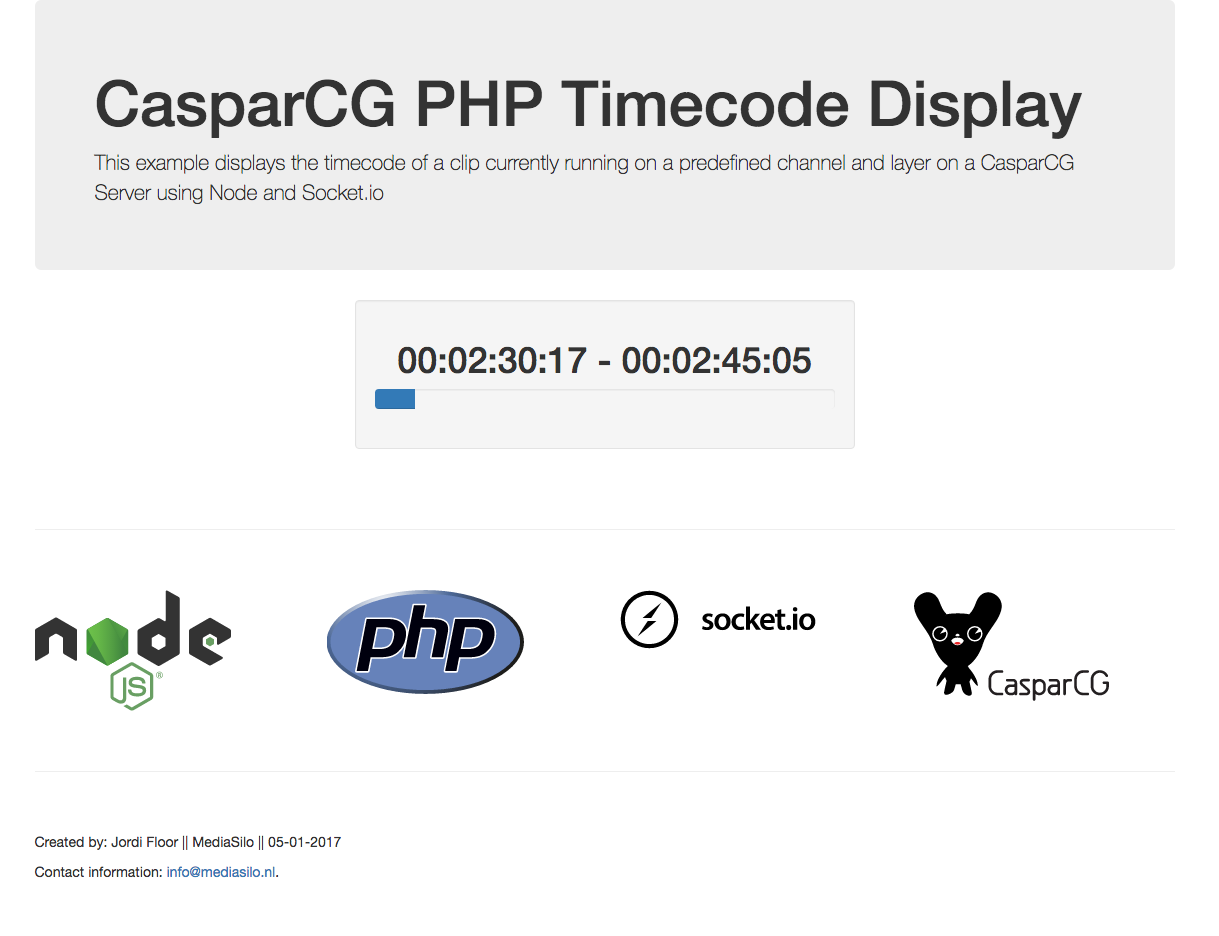
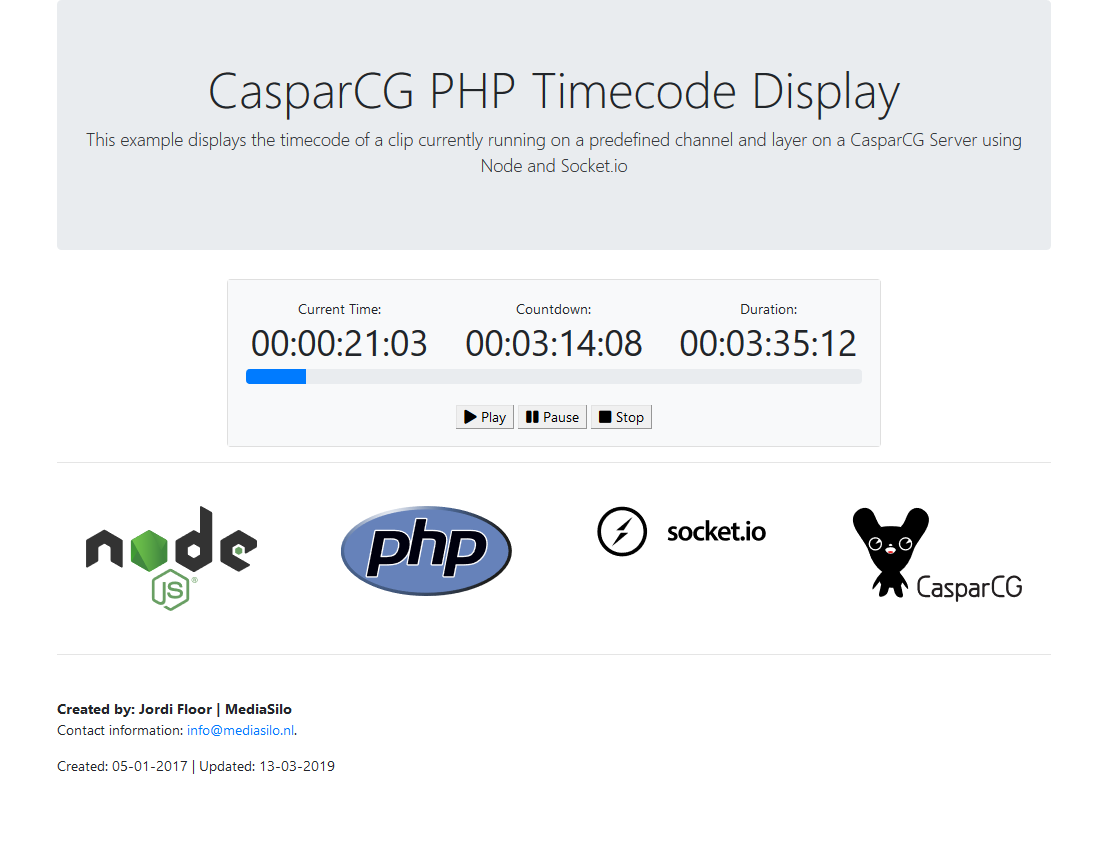
Updated Readme
- Added clearData
- Updated Readme to current version

diff --git a/Public/js/MS.NodeJS-CCG.js b/Public/js/MS.NodeJS-CCG.js
@@ -13,7 +13,8 @@ socket.on('connect',function() {
 
 // SIO || DISCONNECT
 socket.on('disconnect',function() {
-  console.log('Disconnected to NodeJS Server');    
+  console.log('Disconnected to NodeJS Server');
+  clearData();
 });
 
 // SIO || TIMING RECIEVED
@@ -21,11 +22,7 @@ socket.on('timing',function(timingReceived) {
 
   // CLEAR WHEN NO VIDEO IS PRESENT ON CHANNEL
   if(timingReceived.videoPresent == false){
-    $('#infobox #current h1').html('00:00:00:00');
-    $('#infobox #duration h1').html('00:00:00:00');
-    $('#infobox #remaining h1').html('00:00:00:00');
-    $('#infobox #progress').attr('aria-valuenow', '0');
-    $('#infobox #progress').css("width", '0%');
+    clearData();
   }
   else{
     // UPDATE TEXT
@@ -38,6 +35,15 @@ socket.on('timing',function(timingReceived) {
     $('#infobox #progress').css("width", timingReceived.currentProgressPrecent + '%');
   }  
 });
+
+// Clear Data
+function clearData(){
+  $('#infobox #current h1').html('00:00:00:00');
+  $('#infobox #duration h1').html('00:00:00:00');
+  $('#infobox #remaining h1').html('00:00:00:00');
+  $('#infobox #progress').attr('aria-valuenow', '0');
+  $('#infobox #progress').css("width", '0%');
+}
 
 // UI Action Click
 $(document).on('click', '#infobox #uiAction', function(e){

diff --git a/README.md b/README.md
@@ -8,24 +8,39 @@ Because I didn't want to have program a C# or VB client and for every client to 
 ## Installation:
 - Place the files from the "NodeJS" folder on the CasparCG in a folder which you can access from NodeJS
 - Place or upload the files from the "Public" on your webserver (I'm running WAMP on the same server as CasparCG)
-- Change NodeJS Server settings to your settings in: "ccg_node_socket.server.js"
-- Change Client settings to your settings in: "Public/js/ms.ccg_node_socket.main.js"
-- Start NodeJS Application/Server
+- Change NodeJS Server settings to your settings in: "CCG.SocketIO.Config.js"
+- Change Client settings to your settings in: "Public/js/MS.NodeJS-CCG.js"
+- Start NodeJS Application/Server (node CCG.SocketIO.Server.js)
 - Go to index.php
-- Voila!!
+- Voila!! Start media by pressing "Play"
+
+## Updates:
+- Completely reworked the server application
+- Compatibility with the newest CasparCG releases (OSC has been changed)
+- Updated all packages to the latest version
+- Updated to Bootstrap 4.3.1
+- Added Font Awesome for the web display
+- Added media controls to to web display
+- Reworked timing (different sorts of timing deliverance via SocketIO)
+- Fixed timing display. (clears when disconnected or playing has stopped)
 
 ## Minimal Requirements
-- Windows 7 / Linux Server with a running instance of CasparCG
+- Windows 7 / Linux Server with a running instance of CasparCG (I'm using Windows 10 + CasparCG Server 2.2)
 - NodeJS installed on mentioned server
 - Webserver or WAMP installation
 
 ## Node installation
 - NodeJS needs to be fully installed.
 - "ccg_node_socket.server.js" is the actual app but it needs the following dependencies (included in the NodeJS folder):
-- "express": "~4.14.0"
-- "socket.io": "^1.7.2"
-- "caspar-cg": "0.1.0"
-- "body-parser": "~1.15.2"
+- "casparcg-connection": "^4.6.1"
+- "dgram": "^1.0.1"
+- "express": "^4.16.4"
+- "osc-min": "^1.1.1"
+- "request": "^2.88.0"
+- "socket.io": "^2.2.0"
+- "terminal-kit": "^1.27.0"
+- "timexe": "^0.9.13"
+- "tslib": "^1.9.3"
 
 - Package.Json is included if you want to install it yourself
 
